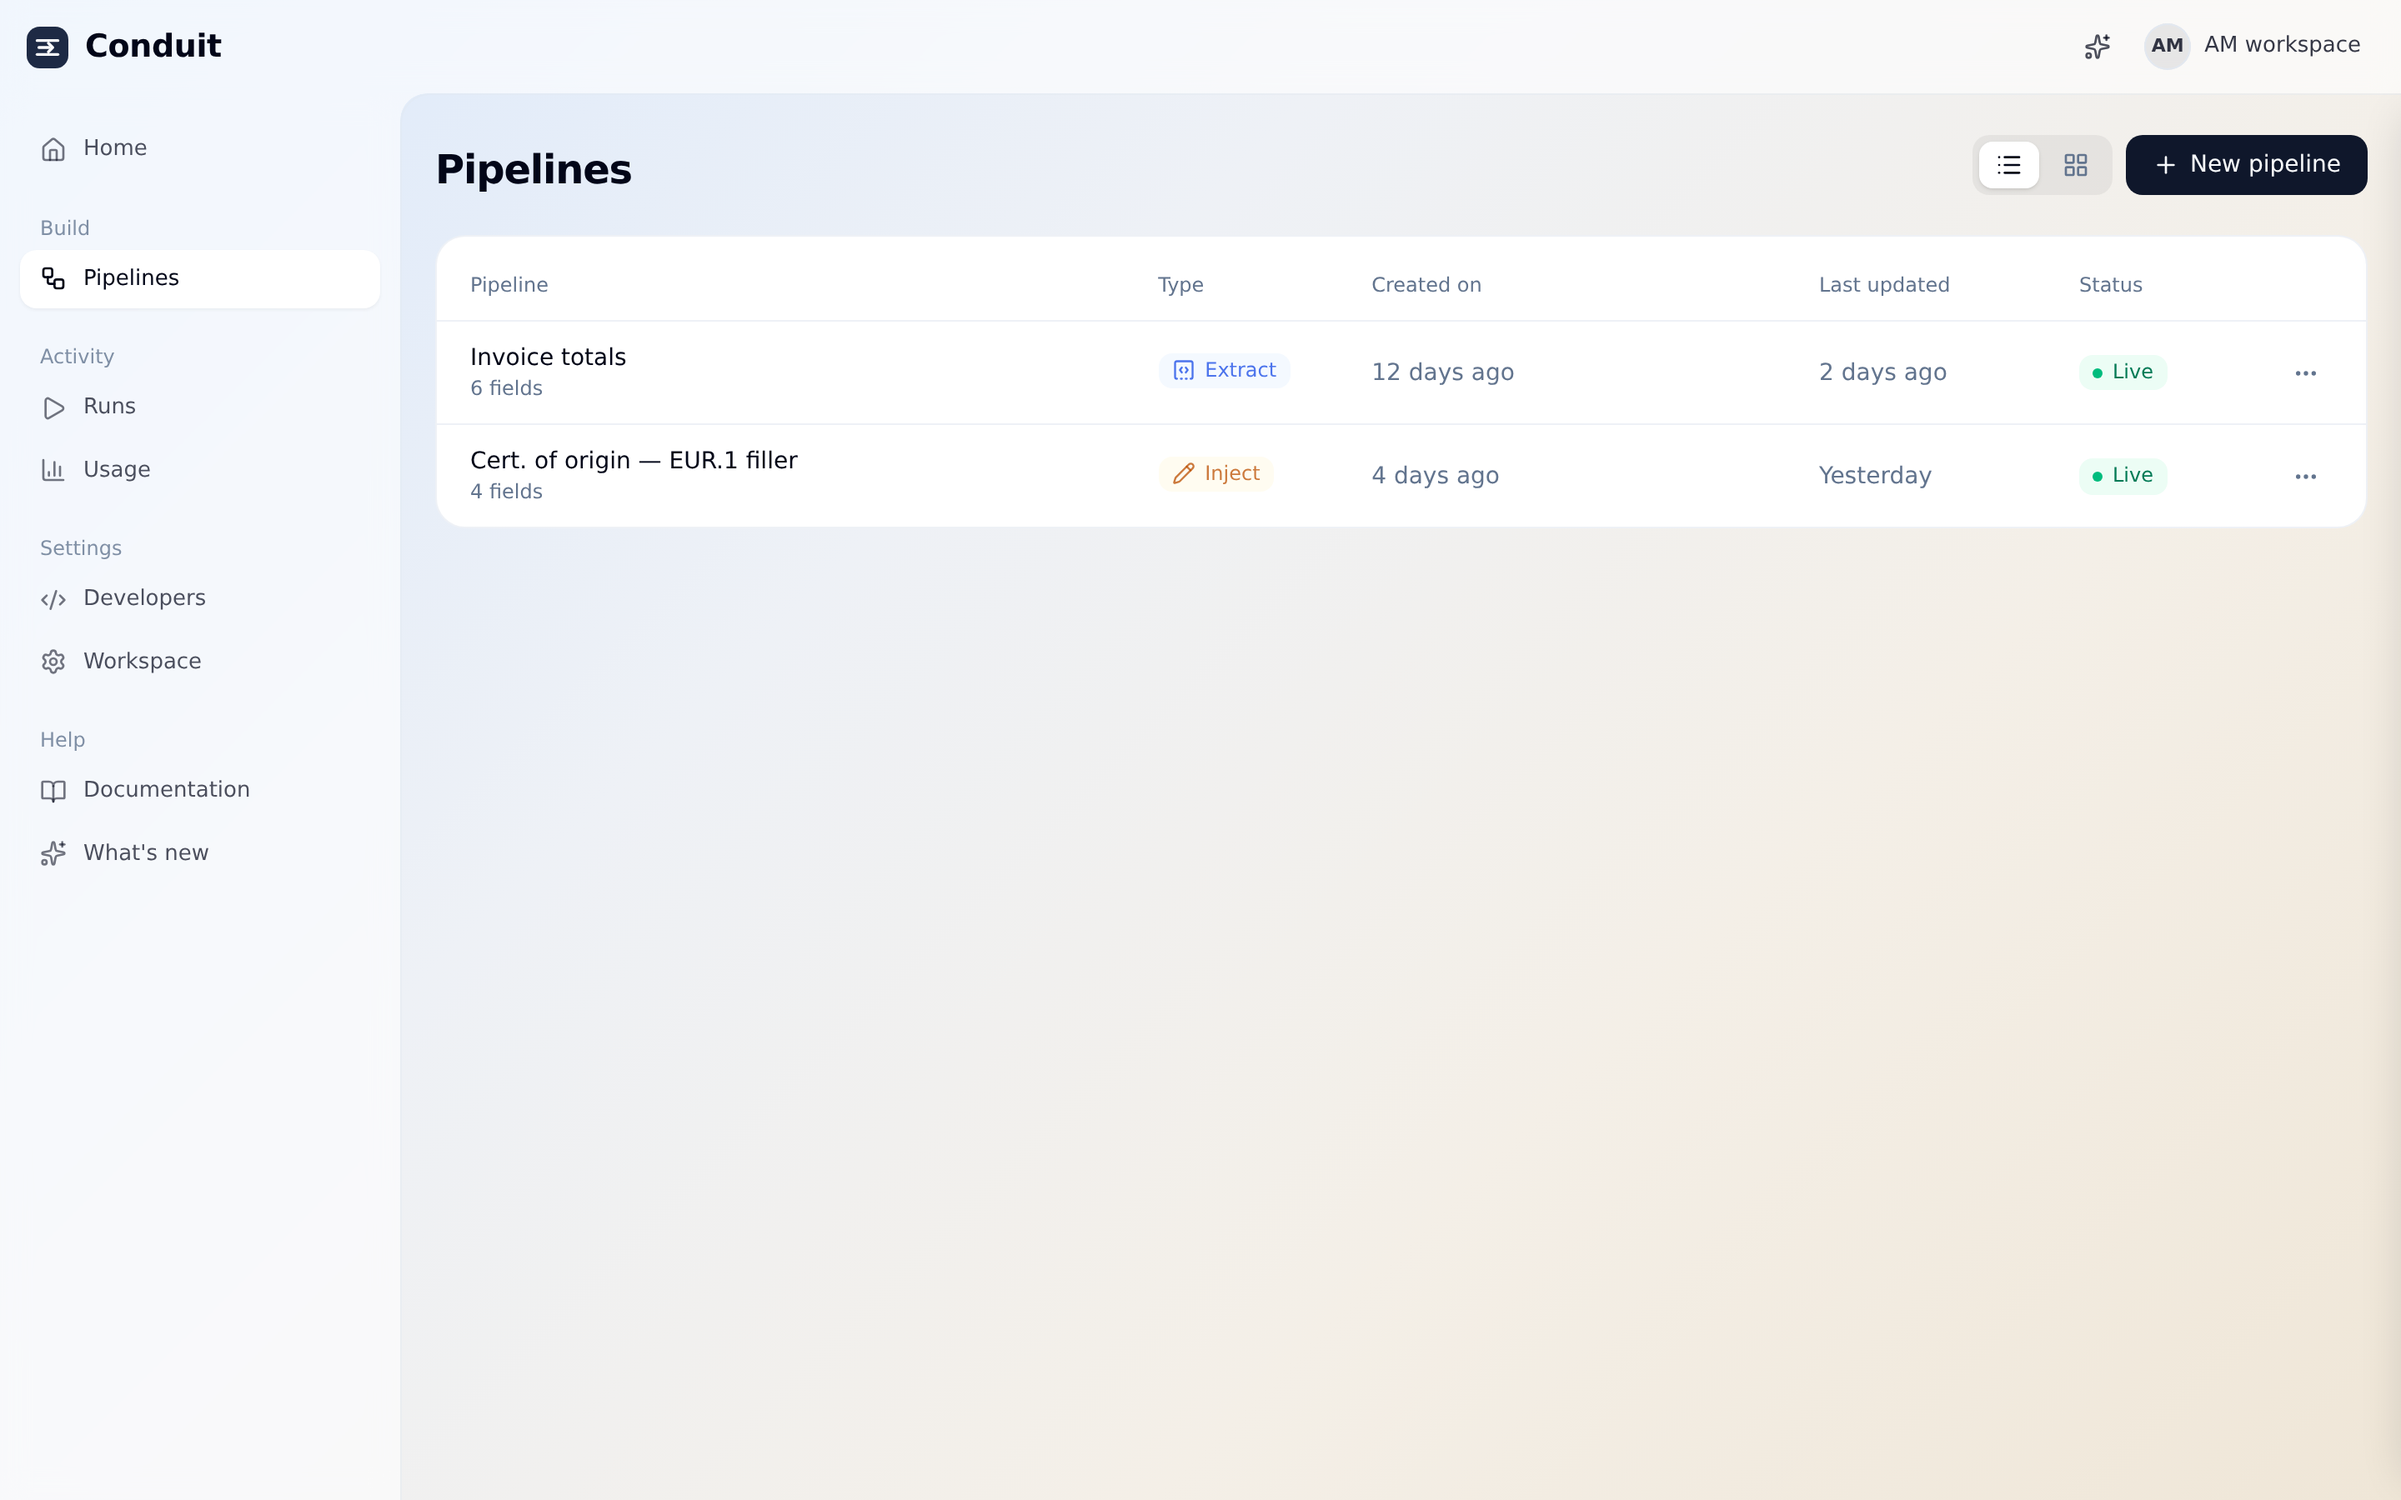
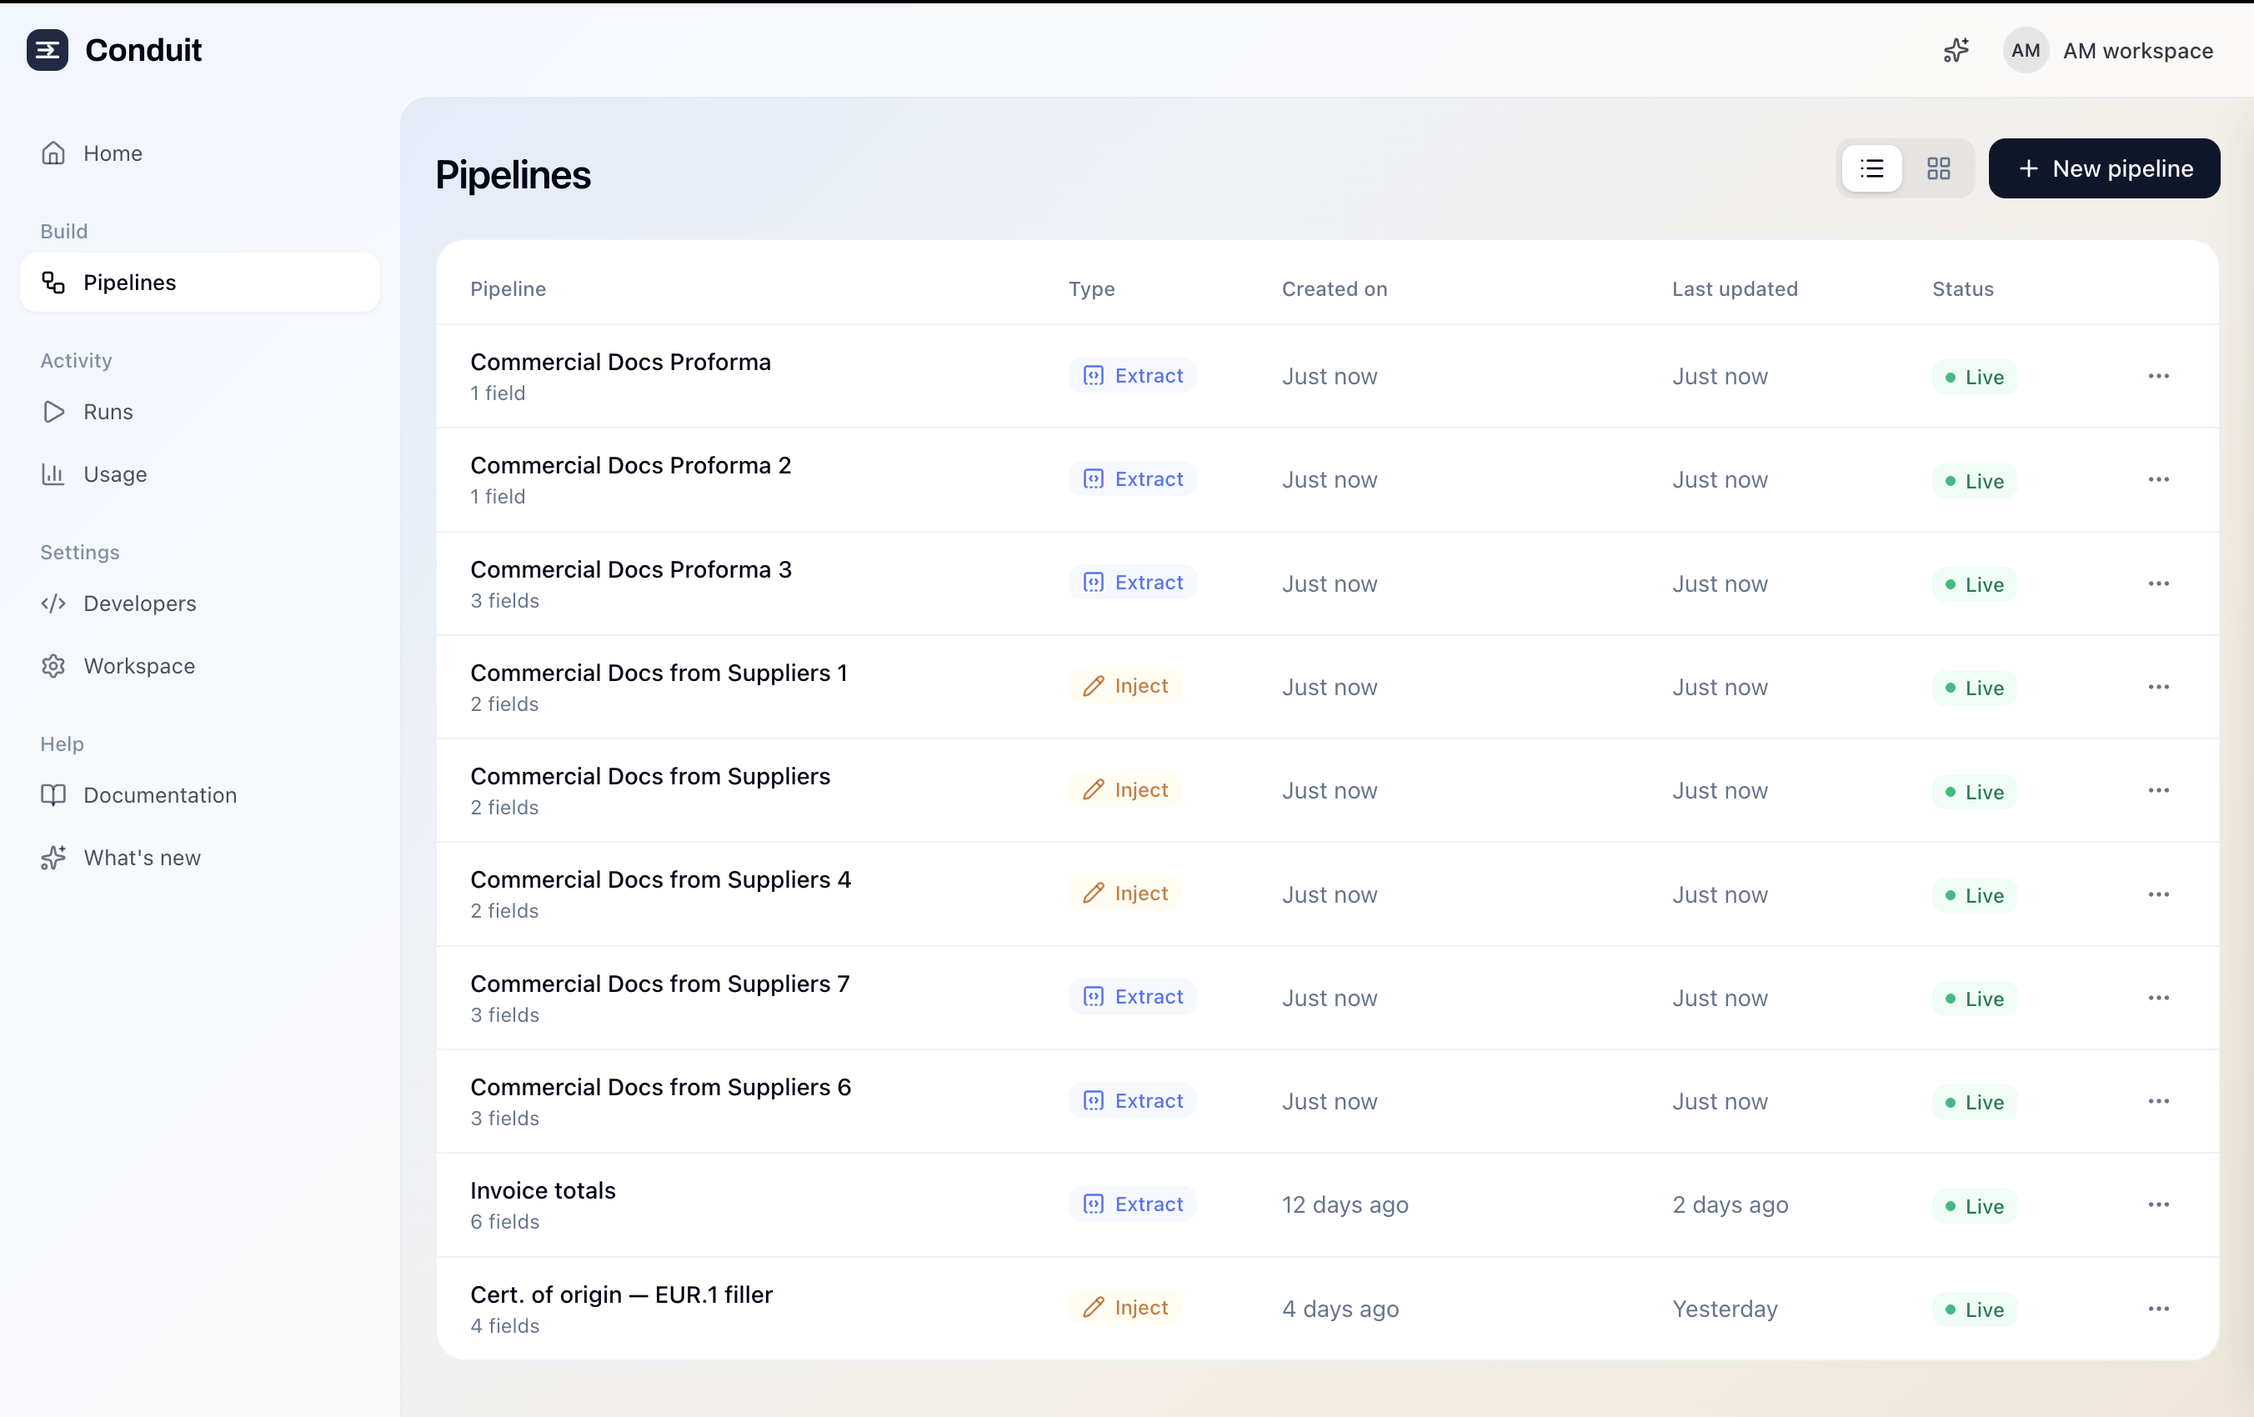
Use the fuller pipelines screenshot and pair it with Runs
Replace the pipelines library still with the supplied capture, and put
it beside Runs in a two-up row under one caption.

Claude-Session: https://claude.ai/code/session_01M4YX7mcUfnGRLRr3oX2SC1

diff --git a/public/compliance-certification.html b/public/compliance-certification.html
@@ -412,14 +412,13 @@
           <p class="caption">Inject: detect a form&rsquo;s layout and fill it with the values you bring.</p>
         </div>
         <div class="figure" style="margin-top: 2rem;">
-          <img class="shot" loading="lazy" src="/conduit/pipelines.png" width="2880" height="1800"
-               alt="Pipelines library: saved pipelines with type, created date and live status" />
-          <p class="caption">A pipeline is a saved object: it persists and it is reusable.</p>
-        </div>
-        <div class="figure" style="margin-top: 2rem;">
-          <img class="shot" loading="lazy" src="/conduit/runs.png" width="1600" height="1004"
-               alt="Runs: a plain table of the documents pipelines have processed" />
-          <p class="caption">Runs, a plain record of what the pipelines have processed.</p>
+          <div class="grid-2" style="margin-bottom: 0.5rem;">
+            <img class="shot" loading="lazy" src="/conduit/pipelines.png" width="2704" height="1700"
+                 alt="Pipelines library: saved Extract and Inject pipelines with type, dates and live status" />
+            <img class="shot" loading="lazy" src="/conduit/runs.png" width="1600" height="1004"
+                 alt="Runs: a plain table of the documents pipelines have processed" />
+          </div>
+          <p class="caption">Pipelines are saved and reused. Runs keeps a plain record of what they have processed.</p>
         </div>
       </section>
 
